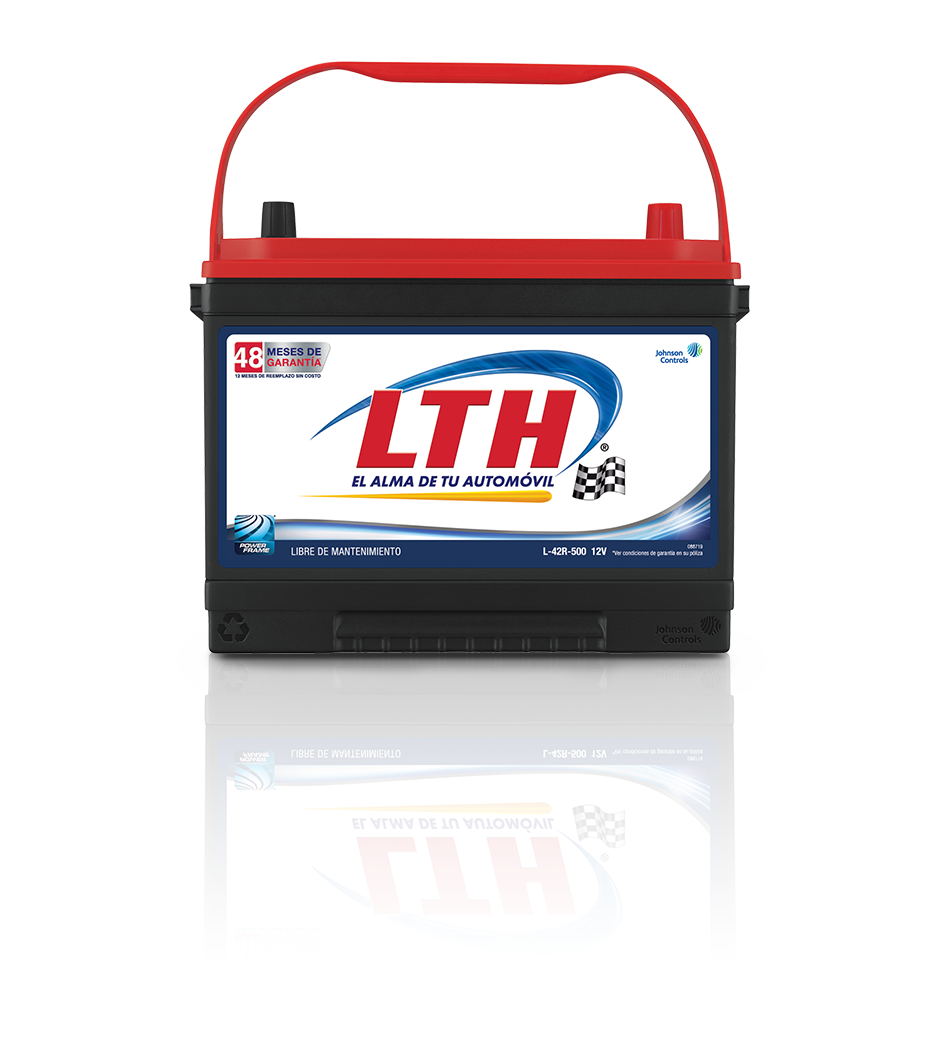
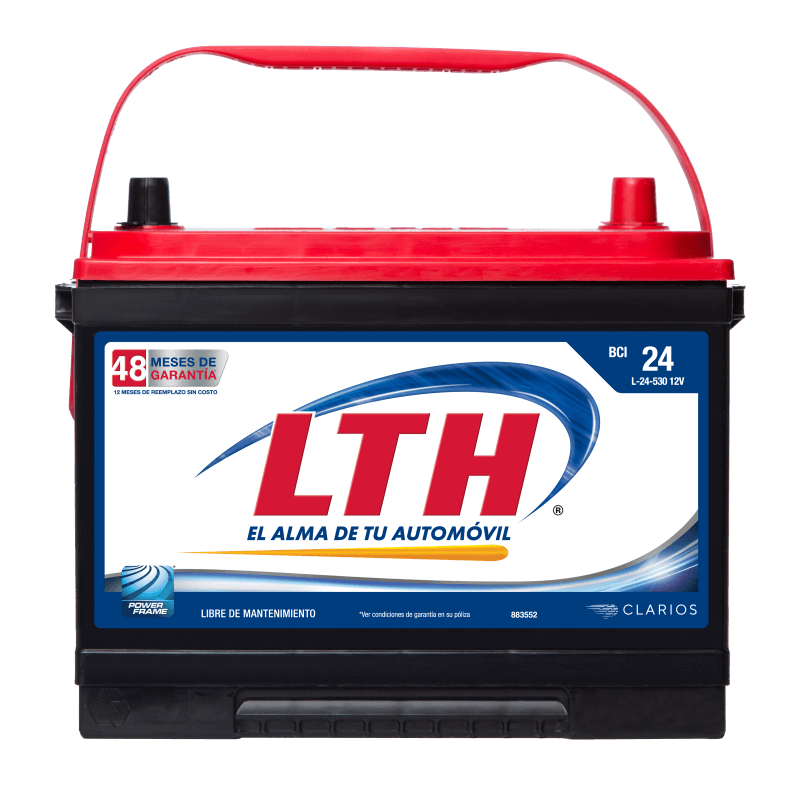
change the image size in the cards of the batteries when you need to pick one

diff --git a/src/pages/SelectBattery.js b/src/pages/SelectBattery.js
@@ -50,44 +50,49 @@ function SelectBattery() {
     (year) => year._id === order.year
   );
   return (
-    <Container sx={{ py: 5 }}>
-      <Box sx={{ p: 3 }}>
-        <CheckoutStepper activeStep={0} />
-        <Typography my={5} variant="h4" color="primary">
-          <strong>Seleccionar batería</strong>
-        </Typography>
-        <Grid container spacing={3}>
-          {selectedYear.batteries.map((battery) => (
-            <Grid item xs={12} sm={4} key={battery._id}>
-              <Card variant="outlined">
-                <CardMedia
-                  component="img"
-                  alt="battery"
-                  image="/images/bateria.png"
-                />
-                <CardContent sx={{ color: "text.secondary" }}>
-                  <Typography color="primary" variant="h6" mb={1}>
-                    <strong>{battery.name}</strong>
-                  </Typography>
-                  <Typography variant="body1">
-                    Modelo:{battery.model}
-                  </Typography>
-                  <Typography variant="body2" color="text.secondary">
-                    Precio: ${battery.price}
-                  </Typography>
-                </CardContent>
-                <CardActions>
-                  <Button onClick={() => sendBattery(battery)}>
-                    Seleccionar
-                  </Button>
-                </CardActions>
-              </Card>
-            </Grid>
-          ))}
+    <>
+      <Container>
+        <Grid container sx={{ py: 5 }}>
+          <Grid item xs={12} sm={12} sx={{ p: 3 }}>
+            <CheckoutStepper activeStep={0} />
+            <Typography my={5} variant="h4" color="primary">
+              <strong>Seleccionar batería</strong>
+            </Typography>
+          </Grid>
+          <Grid item container spacing={3}>
+            {selectedYear.batteries.map((battery) => (
+              <Grid item xs={12} sm={4} key={battery._id}>
+                <Card variant="outlined">
+                  <CardMedia
+                    sx={{ maxWidth: "60%", margin: "20px auto" }}
+                    component="img"
+                    alt="battery"
+                    image="/images/bateria.png"
+                  />
+                  <CardContent sx={{ color: "text.secondary" }}>
+                    <Typography color="primary" variant="h6" mb={1}>
+                      <strong>{battery.name}</strong>
+                    </Typography>
+                    <Typography variant="body1">
+                      Modelo:{battery.model}
+                    </Typography>
+                    <Typography variant="body2" color="text.secondary">
+                      Precio: ${battery.price}
+                    </Typography>
+                  </CardContent>
+                  <CardActions>
+                    <Button onClick={() => sendBattery(battery)}>
+                      Seleccionar
+                    </Button>
+                  </CardActions>
+                </Card>
+              </Grid>
+            ))}
+          </Grid>
         </Grid>
-      </Box>
-      <WhatsApp />
-    </Container>
+        <WhatsApp />
+      </Container>
+    </>
   );
 }
 
